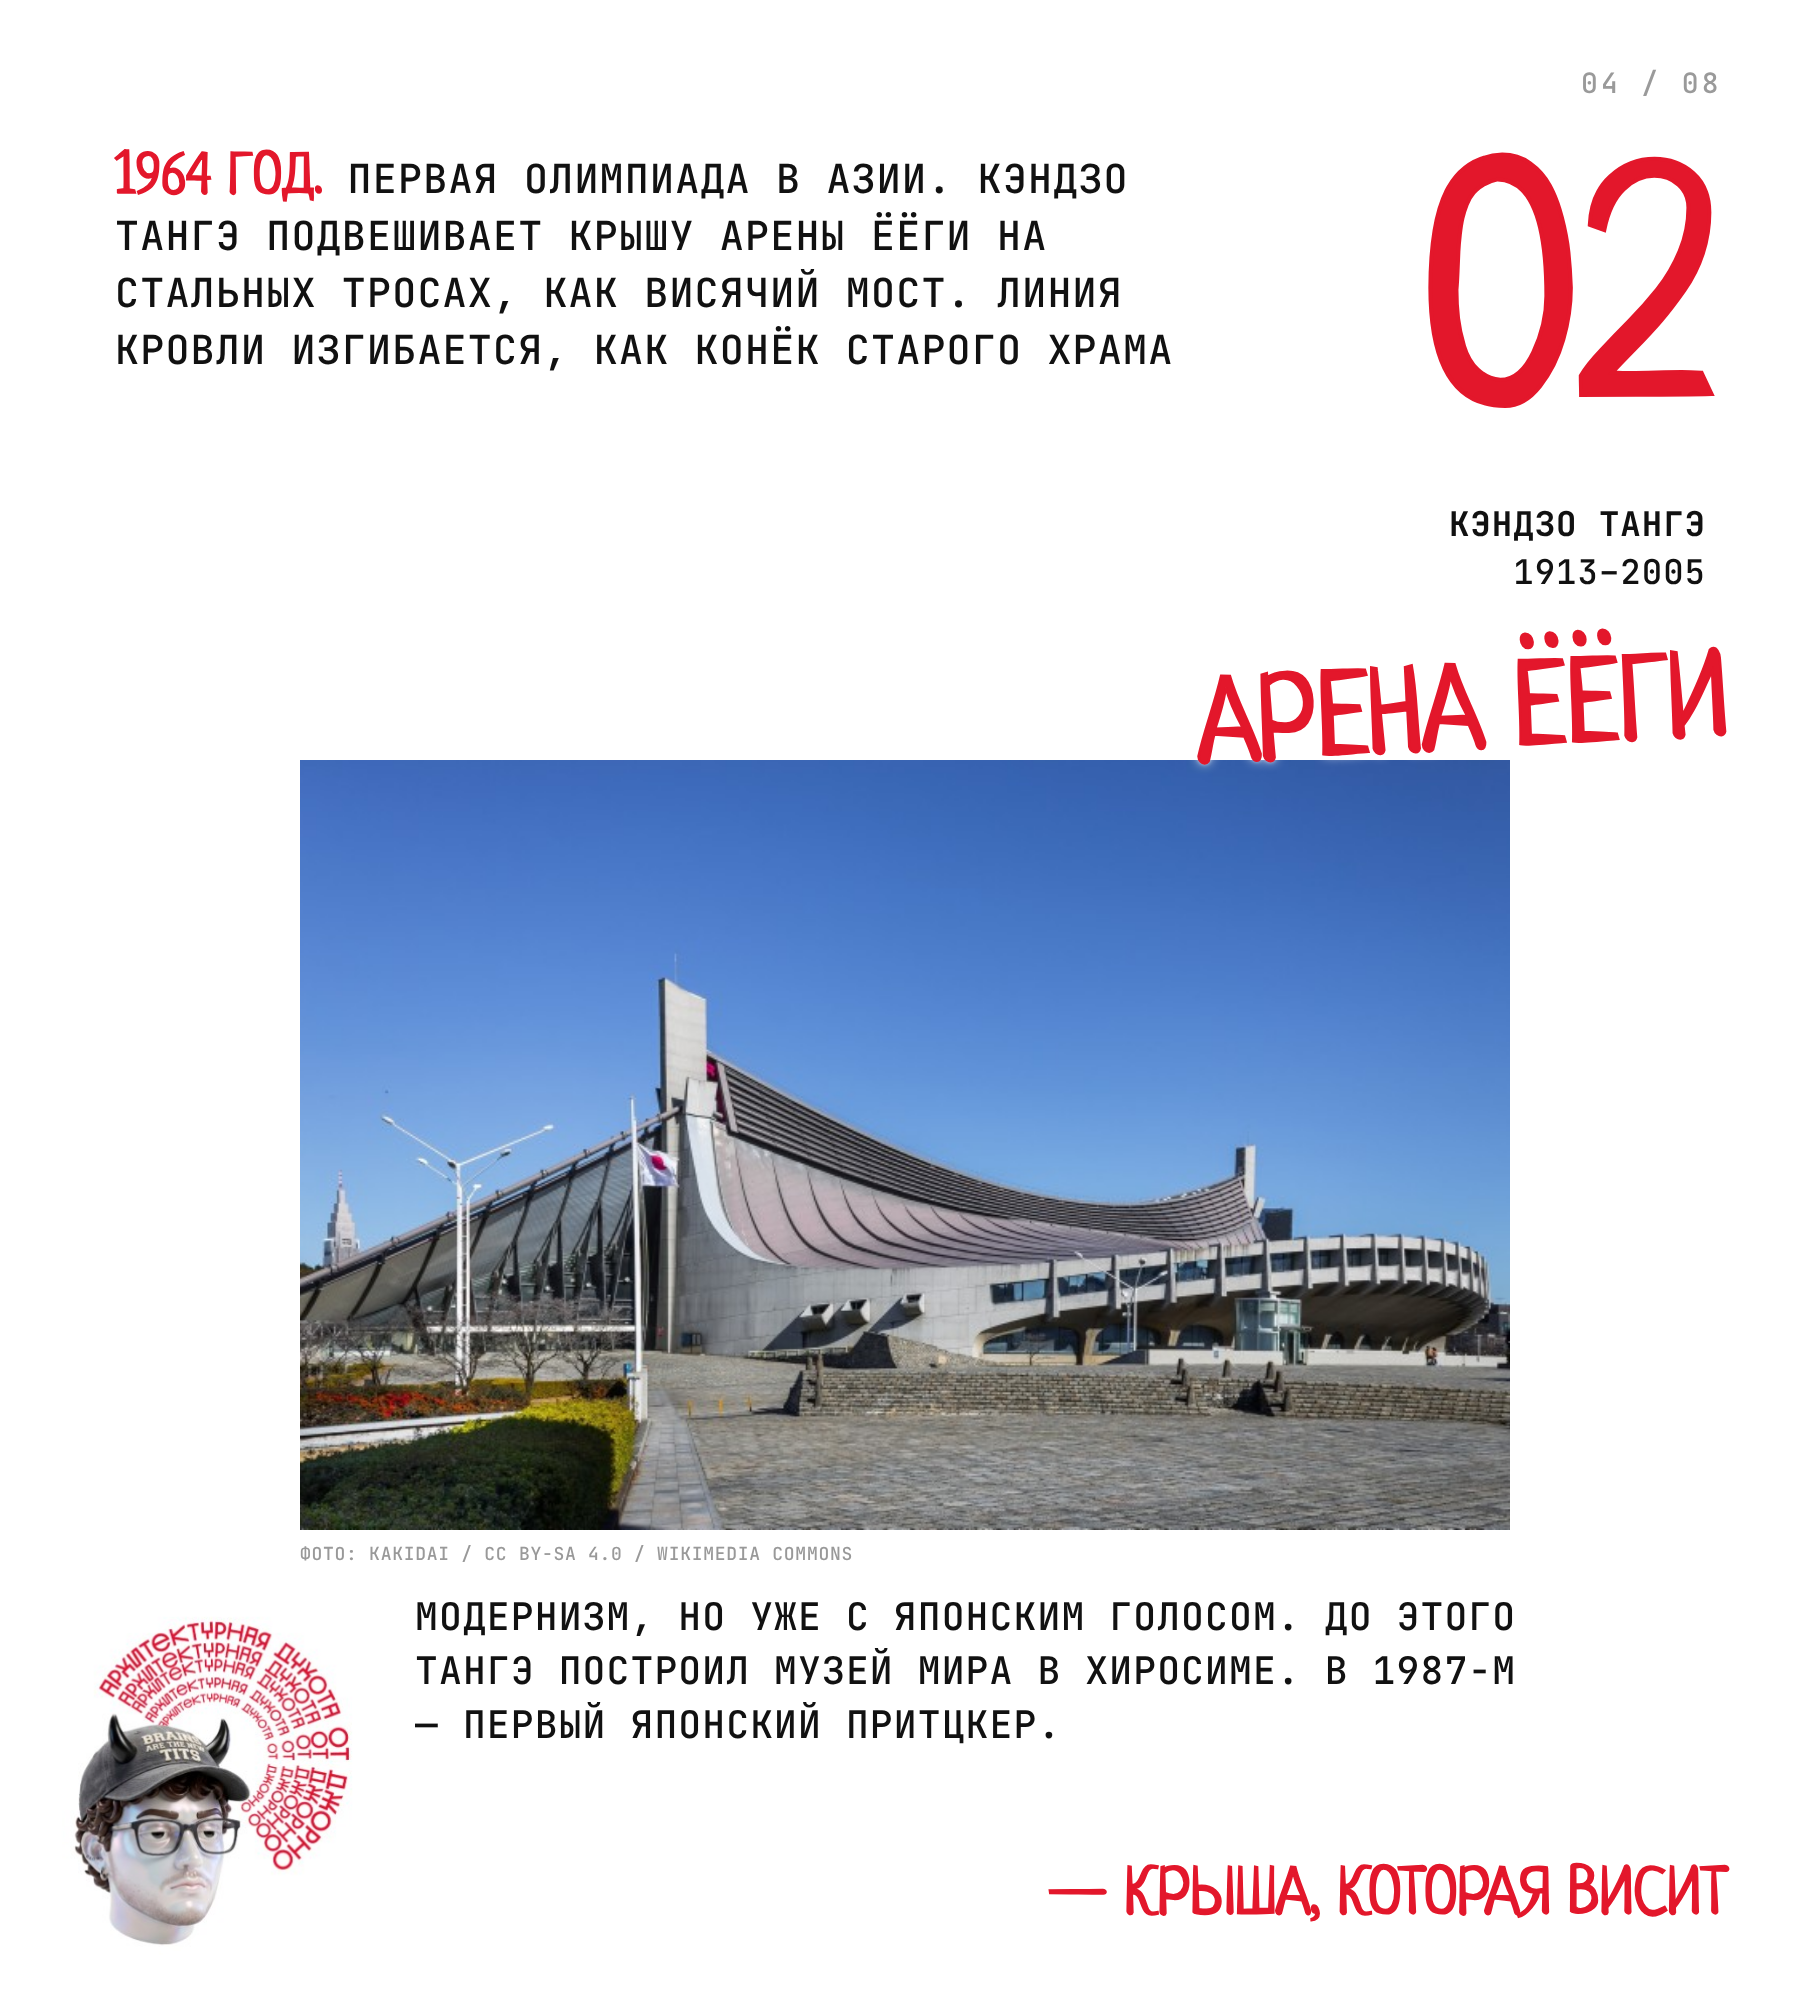
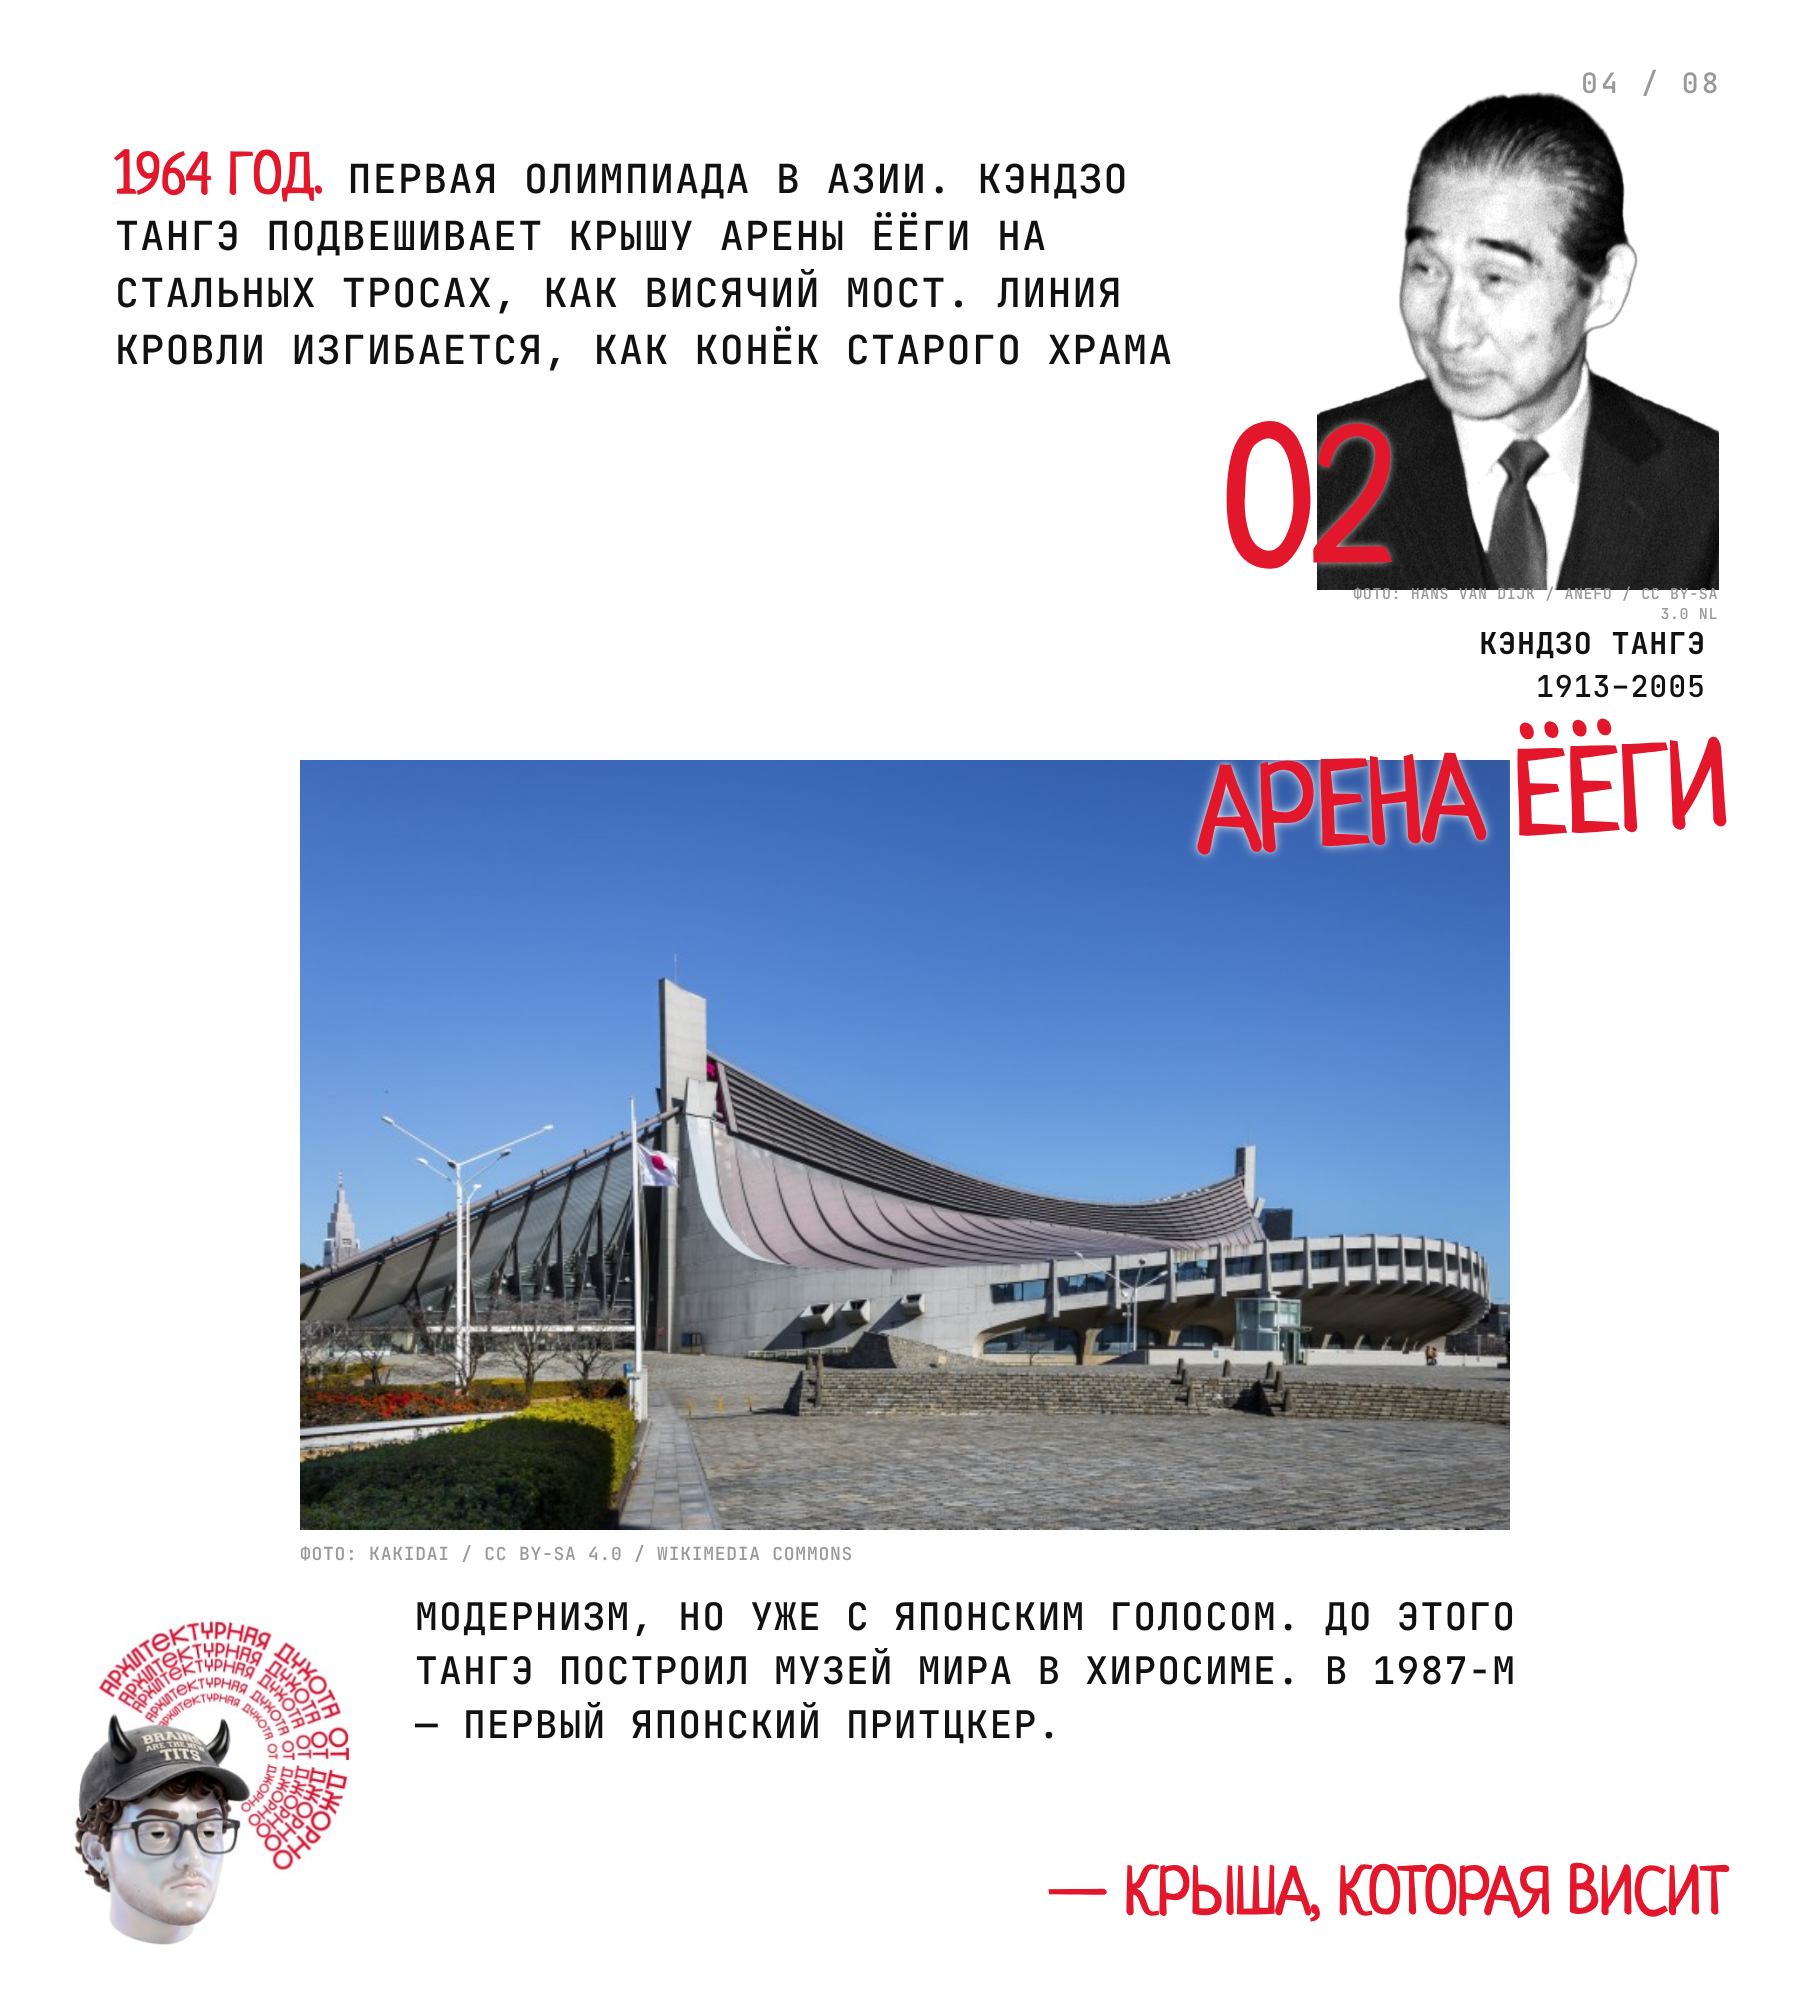
Carousel: Tange cutout portrait, portrait credit layout
Claude-Session: https://claude.ai/code/session_01P3H123YjJAsg9f2r9Q6Sv8

Changed region(s): [[0.6469, 0.031, 0.9549, 0.434]]

diff --git a/carousel/japan-architects/carousel.html b/carousel/japan-architects/carousel.html
@@ -32,8 +32,8 @@
   .portrait { display:none; position:absolute; right:90px; top:90px; width:420px; height:500px; object-fit:contain; object-position:50% 100%; filter:grayscale(1) contrast(1.15); }
   .has-portrait .portrait { display:block; }
   .has-portrait .num { right:auto; left:auto; top:420px; right:430px; font-size:190px; -webkit-text-stroke:3px var(--red); text-shadow:0 0 10px #fff; z-index:2; }
-  .has-portrait .who { top:622px; font-size:30px; }
-  .has-portrait .tag { margin-top:90px; }
+  .has-portrait .who { top:648px; font-size:30px; }
+  .has-portrait .tag { margin-top:110px; }
   .tag { position:absolute; font-size:118px; transform:rotate(-3deg); text-shadow:0 0 12px #fff, 0 0 4px #fff; }
   .after { position:absolute; left:415px; top:1590px; width:1110px; font-size:38px; }
   svg { display:block; }
@@ -355,7 +355,7 @@ window.__ready = Promise.all([
     const img = await find(el.dataset.portrait);
     if (!img) return;
     el.src = img.src; el.closest('.slide').classList.add('has-portrait');
-    const c = credit(el.dataset.portrait); if (c) el.insertAdjacentHTML('afterend', `<div class="credit" style="left:auto;right:100px;top:584px;width:400px;white-space:normal;text-align:right;font-size:15px;position:absolute">${c}</div>`);
+    const c = credit(el.dataset.portrait); if (c) el.insertAdjacentHTML('afterend', `<div class="credit" style="left:auto;right:100px;top:600px;width:420px;white-space:normal;text-align:right;font-size:15px;position:absolute">${c}</div>`);
   }),
 ]);
 

diff --git a/carousel/japan-architects/assets/photos/credits.js b/carousel/japan-architects/assets/photos/credits.js
@@ -4,5 +4,6 @@ window.CREDITS = {
   "yoyogi":          "KAKIDAI / CC BY-SA 4.0 / WIKIMEDIA COMMONS",
   "nakagin":         "NESNAD / CC BY 3.0 · KAKIDAI / CC BY-SA 4.0 / WIKIMEDIA COMMONS",
   "church-of-light": "BERGMANN / CC BY-SA 3.0 / WIKIMEDIA COMMONS",
-  "grand-ring":      "BEA PHI / CC BY-SA 4.0 / WIKIMEDIA COMMONS"
+  "grand-ring":      "BEA PHI / CC BY-SA 4.0 / WIKIMEDIA COMMONS",
+  "tange":           "HANS VAN DIJK / ANEFO / CC BY-SA 3.0 NL"
 };
